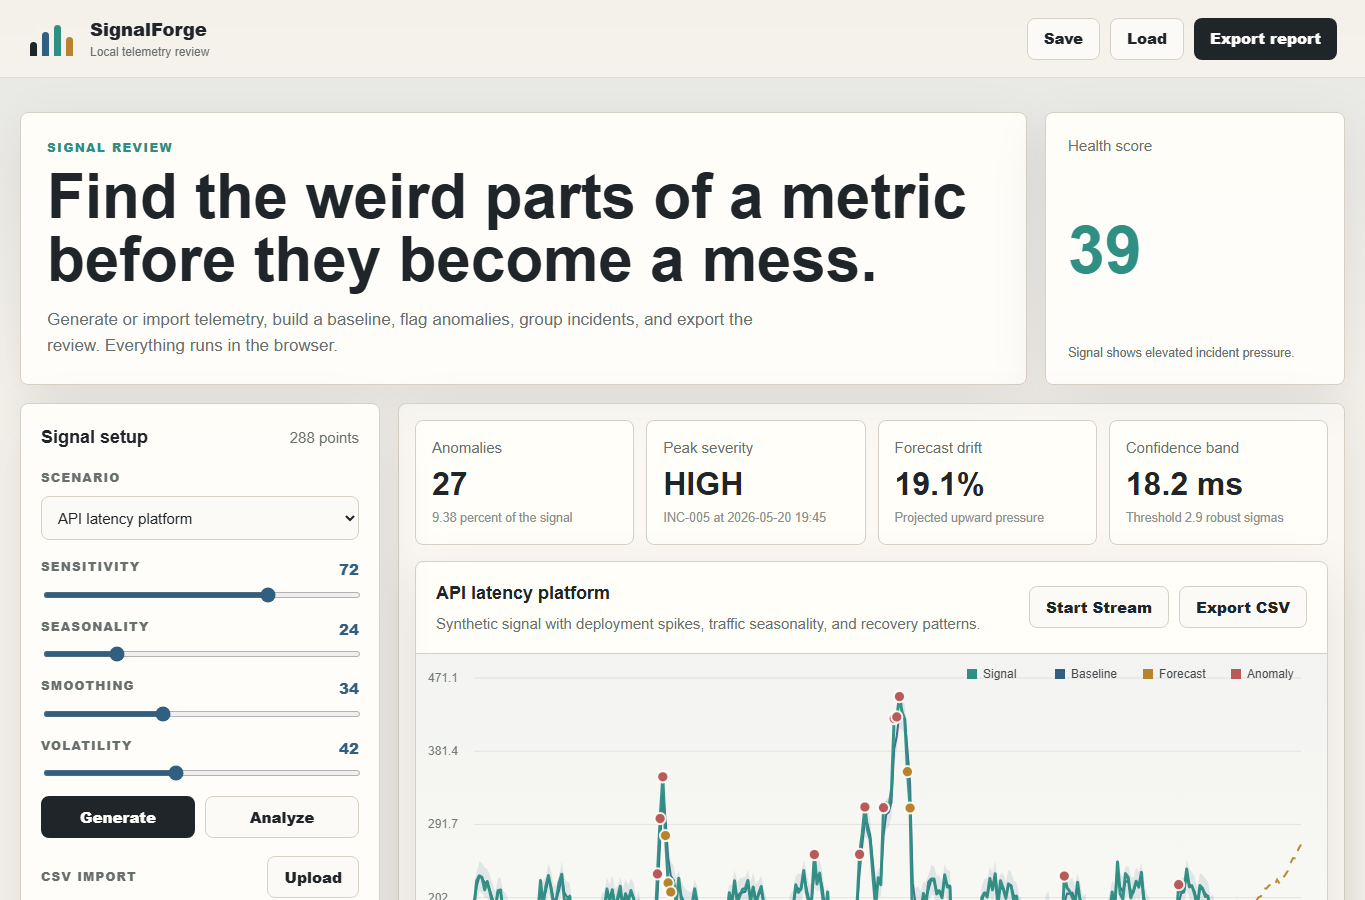
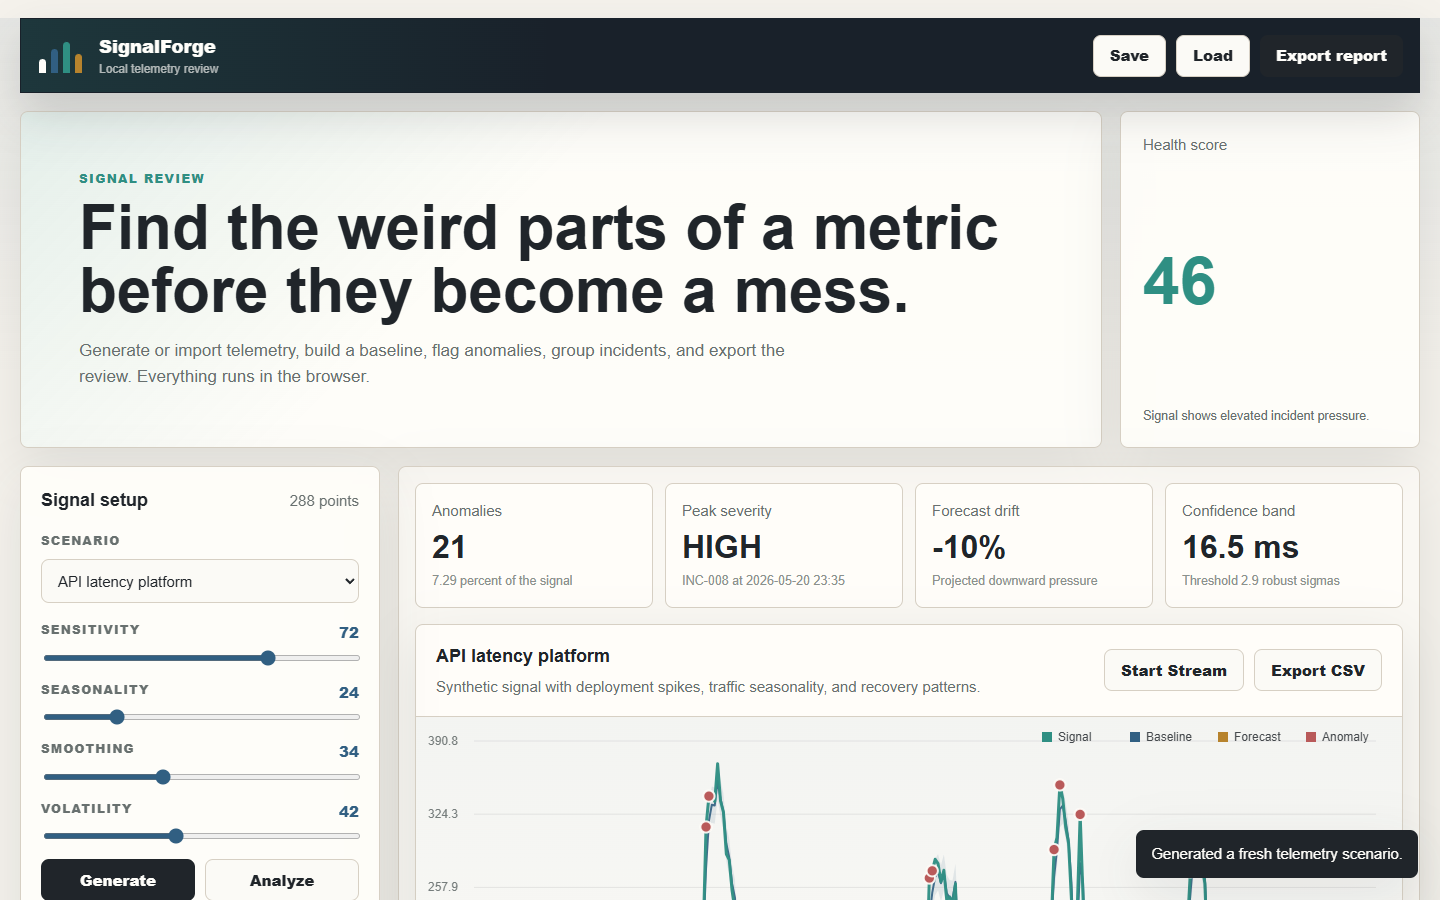
design: reshape app chrome as ops console

diff --git a/src/styles.css b/src/styles.css
@@ -56,25 +56,28 @@ button {
 }
 
 .topbar {
-  position: sticky;
-  top: 0;
+  position: relative;
   z-index: 10;
-  display: flex;
+  display: grid;
+  grid-template-columns: minmax(0, 1fr) auto;
   align-items: center;
-  justify-content: space-between;
   gap: 20px;
-  min-height: 76px;
-  padding: 16px 28px;
-  border-bottom: 1px solid rgba(32, 37, 42, 0.1);
-  background: rgba(245, 242, 236, 0.92);
-  backdrop-filter: blur(14px);
+  width: min(1480px, calc(100% - 40px));
+  margin: 18px auto 0;
+  padding: 14px 16px;
+  border: 1px solid #19212a;
+  background:
+    linear-gradient(90deg, rgba(47, 143, 131, 0.2), transparent 38%),
+    #19212a;
+  color: var(--surface);
+  box-shadow: 0 20px 45px rgba(32, 37, 42, 0.16);
 }
 
 .brand {
   display: inline-flex;
   align-items: center;
   gap: 12px;
-  color: var(--ink);
+  color: inherit;
   text-decoration: none;
 }
 
@@ -91,7 +94,7 @@ button {
   display: block;
   width: 7px;
   border-radius: 999px 999px 0 0;
-  background: var(--ink);
+  background: var(--surface);
 }
 
 .signal-mark i:nth-child(1) {
@@ -124,7 +127,7 @@ button {
 }
 
 .brand small {
-  color: var(--muted);
+  color: rgba(255, 254, 250, 0.66);
   font-size: 12px;
 }
 
@@ -137,13 +140,14 @@ button {
 .shell {
   width: min(1480px, calc(100% - 40px));
   margin: 0 auto;
-  padding: 34px 0 76px;
+  padding: 18px 0 76px;
 }
 
 .summary-strip {
   display: grid;
   grid-template-columns: minmax(0, 1fr) 300px;
   gap: 18px;
+  min-height: 330px;
   margin-bottom: 18px;
 }
 
@@ -162,7 +166,12 @@ button {
 }
 
 .summary-copy {
-  padding: 26px;
+  display: grid;
+  align-content: end;
+  padding: clamp(26px, 5vw, 58px);
+  background:
+    linear-gradient(135deg, rgba(47, 143, 131, 0.12), transparent 42%),
+    rgba(255, 254, 250, 0.92);
 }
 
 .eyebrow {
@@ -597,8 +606,7 @@ canvas {
 
 @media (max-width: 700px) {
   .topbar {
-    align-items: flex-start;
-    flex-direction: column;
+    grid-template-columns: 1fr;
     padding: 16px 20px;
   }
 
